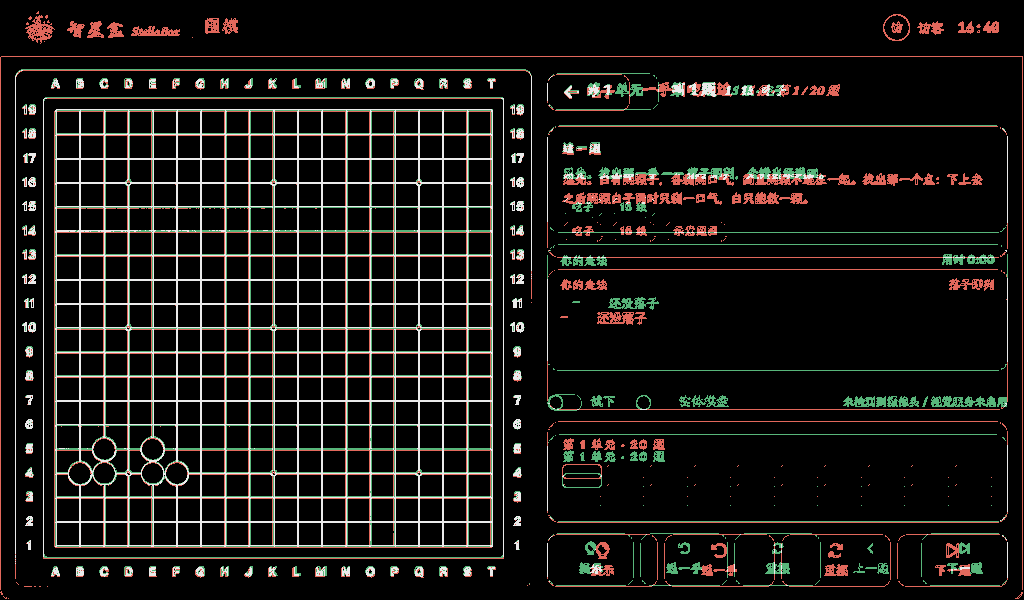
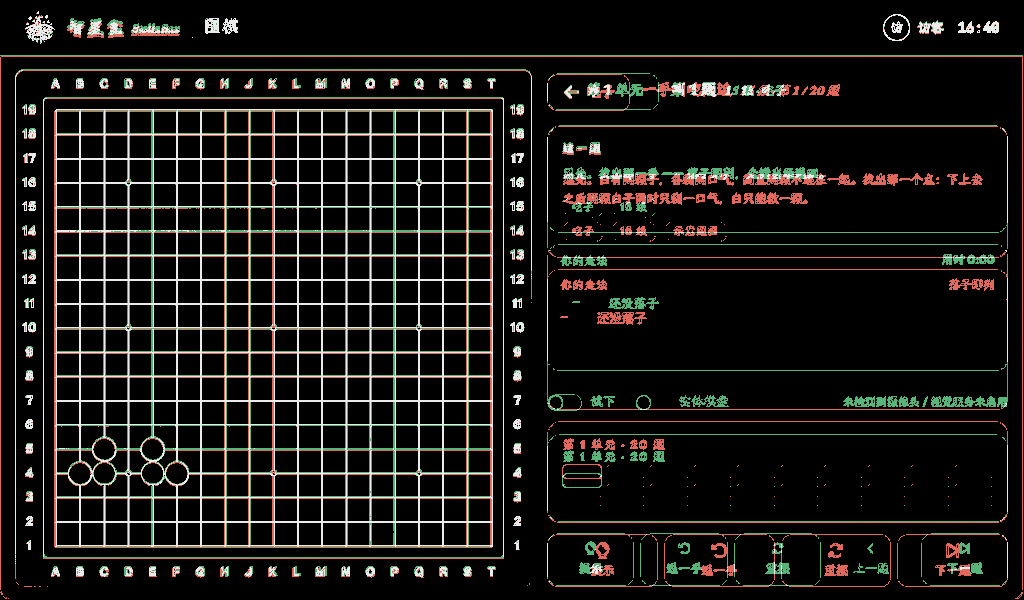
fix(kiosk-go): 屏 14 做题的顶栏没了 —— 那个开关一个像素都没换来(S5)
`TsumegoProblemPage` 用 `setImmersive(true)` 把顶栏整块不渲染,而
`.kiosk-content` 的 `top` 是无条件的 `var(--topbar-h)`(tokens.css:419)⇒
**抽掉顶栏并不会把那 56px 还给内容**,换来的只是屏顶一条空黑带,
代价是那一屏上没有身份、没有时钟、没有主页/退出口。
规范 §5 防跳铁律 1 写死「顶栏永远占 y 0–56,任何层级、任何模块都不变高、不隐藏」,
稿子 `shots/14-puzzle.png` 画的也是有顶栏的。

它是 `immersive` 最后一个消费者(屏 17/18/20/21 各自还过一次),
所以 `ImmersiveContext` 连同它的 Provider、mock 和四份测试桩一起删掉,
顶栏从此在 `KioskLayout` 里无条件渲染 —— 不再有开关可调。

## 闸量错了对象:顶栏那条逐像素闸从头到尾是绿的

`kiosk-shell-geometry.spec.ts:152` 逐像素量顶栏(通栏、56 高、左右簇间距),
**只在 `/kiosk/play` 一屏上量** —— 而漏掉的恰恰是别的屏。屏 14 顶上那条空黑带
在四图存档里肉眼可见(`14-puzzle--side-by-side.png`,2026-08-25 那版),
存档的标签带里却一个字没提,因为没有任何一条断言看得见它。

⇒ 补的判据换了对象:不是「顶栏长什么样」,是「**每一屏上它都在,而且没被盖住**」。
八条路由覆盖全部布局家族(L1 带镜像栏 / L1 自带布局 / L2 布局 A / L2 通栏),
其中就有屏 14。「没被盖住」用 `elementFromPoint` 问浏览器那一点上最上面的是谁 ——
这半件事 jsdom 说不出来:它能证明顶栏**渲染了**,证明不了某一屏用一块遮罩把它压在下面。

jsdom 那一侧同步补了 `KioskLayout.test.tsx` 的 L1+L2 两档(变异验证:
把 topbar 改成 `level === 2 ? undefined : (...)`,L2 那一档当场红;还原后 4 条全过)。

## 不是承重变更

撤回这次改动,没有任何元素的高度来源或裁切边界会变 —— `.kiosk-content` 是
`position:absolute; top:56; bottom:0`,和顶栏渲不渲染无关,顶栏也不在它的流里。
`immersive` 唯一的作用就是让那 56px 空着。⇒ 承重清单不适用,四图重取即可。

屏 14 四图重取:both 30939 / refOnly 26715 / implOnly 25203;顶栏那一带由「红一整条」
变成对齐。reference 字节未变(源图没动),只提 implementation / side-by-side / diff 三张。

Claude-Session: https://claude.ai/code/session_01QHDpCMFjFdkkBRpiU82iCK

Changed region(s): [[0.0312, 0.03, 0.25, 0.09], [0.8438, 0.03, 1.0, 0.06]]

diff --git a/katrain/web/ui/src/kiosk/__tests__/KioskLayout.test.tsx b/katrain/web/ui/src/kiosk/__tests__/KioskLayout.test.tsx
@@ -1,11 +1,9 @@
 import { describe, it, expect } from 'vitest';
-import { render, screen } from '@testing-library/react';
+import { render, screen, cleanup } from '@testing-library/react';
 import { MemoryRouter, Routes, Route } from 'react-router-dom';
 import { ThemeProvider } from '@mui/material';
-import { useEffect } from 'react';
 import { kioskTheme } from '../theme';
 import KioskLayout from '../components/layout/KioskLayout';
-import { useImmersive } from '../context/ImmersiveContext';
 
 const renderLayout = (route = '/kiosk/play') =>
   render(
@@ -16,21 +14,12 @@ const renderLayout = (route = '/kiosk/play') =>
             <Route path="/kiosk/play" element={<div>PLAY_CONTENT</div>} />
             <Route path="/kiosk/report" element={<div>REPORT_CONTENT</div>} />
             <Route path="/kiosk/settings" element={<div>SETTINGS_CONTENT</div>} />
+            <Route path="/kiosk/report/x1" element={<div>DETAIL_CONTENT</div>} />
           </Route>
         </Routes>
       </MemoryRouter>
     </ThemeProvider>
   );
-
-/** Outlet child that flips the real ImmersiveContext (mounted by KioskLayout) to
- * immersive mode on mount — proves the A6→A10 immersive mechanism end to end. */
-const ImmersiveTrigger = () => {
-  const { setImmersive } = useImmersive();
-  useEffect(() => {
-    setImmersive(true);
-  }, [setImmersive]);
-  return <div>IMMERSIVE_CONTENT</div>;
-};
 
 describe('KioskLayout', () => {
   it('renders header, dock, console, and outlet on /kiosk/play', () => {
@@ -66,29 +55,21 @@ describe('KioskLayout', () => {
     expect(document.querySelector('.kiosk-layout-l1')).toBeNull();
   });
 
-  // Task 4 把 Dock 的出没**只**交给 `dockLevelOf`,`immersive` 不再参与:
-  // 今天五个设 immersive 的页面(研究/复盘详情/摆谱对局/做题/直播)**全在 L2**,
-  // `level === 1` 已经把它们挡住了,再叠一个条件只是多一条永远不走的分支。
-  // 所以这条测试现在断言的是 immersive 仅存的那一半作用 —— 抽顶栏。
+  // 顶栏**没有开关**。这里曾经有一个 `immersive`,它能把顶栏整块不渲染 ——
+  // 而 `.kiosk-content` 的 `top` 是写死的 `var(--topbar-h)`(tokens.css:419),
+  // **抽掉顶栏并不会把那 56px 还给内容**:换来的只是屏顶一条空黑带,
+  // 代价是那一屏上没有身份、没有时钟、没有退出口。2026-08-26 连同 `ImmersiveContext` 一起删。
   //
-  // ⚠ **抽顶栏本身和规范 §5 防跳铁律 1 冲突**(「顶栏永远占 y 0–56,任何层级、
-  // 任何模块都不变高、不隐藏」)。这条冲突已登记,归 Task 18 的 §12 差异清单处理,
-  // 不在本 Task 范围内 —— 这条测试锁的是**现状**,不是终态。
-  it('immersive 抽掉顶栏;Dock 归 level 管,L1 上照旧在(已登记的 §5 冲突)', () => {
-    render(
-      <ThemeProvider theme={kioskTheme}>
-        <MemoryRouter initialEntries={['/kiosk/play']}>
-          <Routes>
-            <Route element={<KioskLayout username="张三" />}>
-              <Route path="/kiosk/play" element={<ImmersiveTrigger />} />
-            </Route>
-          </Routes>
-        </MemoryRouter>
-      </ThemeProvider>
-    );
+  // 这条锁的是规范 §5 防跳铁律 1(「顶栏永远占 y 0–56,任何层级、任何模块都不变高、不隐藏」)
+  // 里 jsdom 能作证的那一半 —— **在不在**。高度和位置归真浏览器几何闸
+  // (`kiosk-shell-geometry.spec.ts`),那一条同一天补了「每一条路由上都在」。
+  it('顶栏在 L1 和 L2 上都渲染 —— 页面无法把它抽掉', () => {
+    renderLayout('/kiosk/play');           // L1
+    expect(screen.getByText('智星盒')).toBeInTheDocument();
+    cleanup();
 
-    expect(screen.getByText('IMMERSIVE_CONTENT')).toBeInTheDocument();
-    expect(screen.queryByText('智星盒')).toBeNull();
-    expect(screen.getByText('对弈')).toBeInTheDocument();
+    renderLayout('/kiosk/report/x1');      // L2:不在 dockRoutes 词典里 ⇒ 无 Dock
+    expect(screen.getByText('智星盒')).toBeInTheDocument();
+    expect(screen.queryByText('对弈')).toBeNull();   // Dock 确实没了,顶栏还在
   });
 });

diff --git a/katrain/web/ui/src/kiosk/components/layout/KioskLayout.tsx b/katrain/web/ui/src/kiosk/components/layout/KioskLayout.tsx
@@ -1,6 +1,5 @@
 import { Box } from '@mui/material';
 import { Outlet, useLocation, useNavigate } from 'react-router-dom';
-import { ImmersiveProvider, useImmersive } from '../../context/ImmersiveContext';
 import { KioskFrame } from '../../shell/KioskFrame';
 import { KioskTopbar } from '../../shell/KioskTopbar';
 import { KioskDock } from '../../shell/KioskDock';
@@ -30,23 +29,24 @@ const SELF_LAYOUT_ROUTES = ['/kiosk/report', '/kiosk/settings'];
 interface KioskLayoutProps { username?: string }
 
 const KioskShell = ({ username }: KioskLayoutProps) => {
-  const { immersive } = useImmersive();
   const location = useLocation();
   const navigate = useNavigate();
 
-  // 层级**只**由 dockRoutes 的词典说了算,不由路由前缀、也不由 immersive 说了算。
+  // 层级**只**由 dockRoutes 的词典说了算,不由路由前缀说了算。
   // 一个真相来源:Dock 出不出、中间区 434 还是 516、主页键给不给,全从这一个数派生。
   const level = dockLevelOf(location.pathname);
-  const showRail = !immersive && level === 1 && RAIL_ROUTES.includes(location.pathname);
+  const showRail = level === 1 && RAIL_ROUTES.includes(location.pathname);
 
   return (
     <KioskFrame
       level={level}
-      // ⚠ 已登记的冲突(Task 4):`immersive` 会把顶栏一起抽掉,而规范 §5 防跳铁律 1
-      // 写死「顶栏永远占 y 0–56,任何层级、任何模块都不变高、不隐藏」。本 Task 只把
-      // **Dock** 归 `dockLevelOf` 管,`immersive` 对顶栏的作用先原样留着 ——
-      // 它有五个消费者(研究/复盘详情/摆谱对局/做题/直播),删它超出本 Task 的范围。
-      topbar={immersive ? undefined : (
+      // 顶栏**无条件渲染** —— 规范 §5 防跳铁律 1:「顶栏永远占 y 0–56,任何层级、
+      // 任何模块都不变高、不隐藏」。这里曾经有一个 `immersive` 开关能把它抽掉,
+      // 而 `.kiosk-content` 的 `top` 是写死的 `var(--topbar-h)`(tokens.css:419)⇒
+      // 抽掉顶栏**并不会把那 56px 还给内容**,只是在屏顶留一条空黑带。
+      // 也就是说那个开关从来没有换来任何东西,代价却是屏上少了身份、时钟和退出口。
+      // 2026-08-26 删掉,`ImmersiveContext` 一并删(它已无第二个消费者)。
+      topbar={(
         <KioskTopbar
           identity={{ username }}
           // 主页键只在一级页出现(规范 §6「一级页面可在固定系统动作区显示主页入口」)。
@@ -54,8 +54,6 @@ const KioskShell = ({ username }: KioskLayoutProps) => {
           onHome={level === 1 ? () => window.location.assign('http://127.0.0.1:8080/launcher') : undefined}
         />
       )}
-      // Dock 不再看 immersive:今天五个设 immersive 的页面全在 L2,`level === 1` 已经把它们
-      // 挡在外面了,再叠一个条件只会多出一条永远不走的分支。
       dock={level === 1 ? (
         <KioskDock pathname={location.pathname} onTab={(p) => navigate(p)} />
       ) : undefined}
@@ -90,10 +88,6 @@ const KioskShell = ({ username }: KioskLayoutProps) => {
   );
 };
 
-const KioskLayout = ({ username }: KioskLayoutProps) => (
-  <ImmersiveProvider>
-    <KioskShell username={username} />
-  </ImmersiveProvider>
-);
+const KioskLayout = ({ username }: KioskLayoutProps) => <KioskShell username={username} />;
 
 export default KioskLayout;

diff --git a/katrain/web/ui/src/kiosk/pages/ReportDetailPage.test.tsx b/katrain/web/ui/src/kiosk/pages/ReportDetailPage.test.tsx
@@ -17,7 +17,6 @@ const getMoves = vi.fn();
 const getGame = vi.fn();
 const setCurrentMove = vi.fn();
 const playSound = vi.fn();
-const setImmersive = vi.fn();
 let auth = { token: 'token', isAuthenticated: true };
 let detail: ReturnType<typeof baseDetail>;
 let boardProps: Record<string, unknown> = {};
@@ -47,7 +46,6 @@ vi.mock('../../api/userGamesApi', async (original) => ({
   UserGamesAPI: { get: (...args: unknown[]) => getGame(...args) },
 }));
 vi.mock('../../hooks/useSound', () => ({ useSound: () => ({ play: playSound }) }));
-vi.mock('../context/ImmersiveContext', () => ({ useImmersive: () => ({ setImmersive }) }));
 // 盘是 canvas,jsdom 里画不出来 —— 换成一块能替它发出「点了哪一格」的桩。
 // `Q10` 在 `ABCDEFGHJKLMNOPQRSTUVWXYZ`(跳 I)里 x=15、y=10−1=9;`A1` 是 (0,0)。
 vi.mock('../../components/live/LiveBoard', () => ({
@@ -166,12 +164,11 @@ describe('屏 20 · 题头与状态', () => {
 
   afterEach(() => vi.useRealTimers());
 
-  // ⚠ **这一屏不进沉浸。** `immersive` 只把顶栏整块不渲染,而 `.kiosk-content` 的 top
-  // 仍是 56 ⇒ 屏顶留一条 56 高的空黑带(2026-08-23 四图当场看见)。
-  // 规范 §5 防跳铁律 1:顶栏任何层级都不隐藏;稿子这一屏画的也是有顶栏的。
-  it('不进沉浸 —— 顶栏得留着,盘按谱的路数画,题头念的是这一局是什么', () => {
+  // 顶栏在不在**不再是这一屏能决定的事**:2026-08-26 删掉了 `ImmersiveContext`,
+  // `KioskLayout` 无条件渲染顶栏,判据搬到 `KioskLayout.test.tsx` 和真浏览器几何闸。
+  // 这一条只留下它自己的部分 —— 盘按谱的路数画、题头念的是这一局是什么。
+  it('盘按谱的路数画,题头念的是这一局是什么', () => {
     renderPage();
-    expect(setImmersive).not.toHaveBeenCalledWith(true);
     expect(screen.getByTestId('live-board')).toHaveAttribute('data-board-size', '19');
     expect(screen.getByTestId('report-detail-status')).toHaveTextContent('生成中 · 深度复盘');
     // 页控条的标题走的是复盘列表那套说法(同一局在两屏之间不许改口)
@@ -255,11 +252,6 @@ describe('屏 20 · 题头与状态', () => {
     expect(document.querySelectorAll('.kiosk-board__ruler--top span')).toHaveLength(19);
   });
 
-  it('从头到尾没碰过沉浸开关 —— 碰了就等于自己把顶栏抽掉', () => {
-    const rendered = renderPage();
-    rendered.unmount();
-    expect(setImmersive).not.toHaveBeenCalled();
-  });
 });
 
 describe('屏 20 · 胜率曲线与重点手', () => {

diff --git a/katrain/web/ui/src/kiosk/pages/TsumegoProblemPage.tsx b/katrain/web/ui/src/kiosk/pages/TsumegoProblemPage.tsx
@@ -9,7 +9,6 @@ import SuccessOverlay from '../components/tsumego/SuccessOverlay';
 import BoardSetupGuide from '../components/vision/BoardSetupGuide';
 import { useVision } from '../context/VisionContext';
 import { useOptionalGeometry } from '../context/GeometryContext';
-import { useImmersive } from '../context/ImmersiveContext';
 import { useVisionSync } from '../hooks/useVisionSync';
 import { usePhysicalTsumego, stonesToVisionBoard } from '../hooks/usePhysicalTsumego';
 import {
@@ -46,7 +45,6 @@ const TsumegoProblemPage = () => {
   const { t } = useTranslation();
   const { play: playSound } = useSound();
   const { progress } = useTsumegoProgress();
-  const { setImmersive } = useImmersive();
   const {
     problem,
     loading,
@@ -118,12 +116,6 @@ const TsumegoProblemPage = () => {
   // Sequence of problem ids for the whole category, sourced from sessionStorage (written by
   // the units pages). If missing (deep-link), fetch the full category list once and cache it.
   const [sequence, setSequence] = useState<string[]>([]);
-
-  // Immersive solve screen — hide the Dock + left board console while a problem is open.
-  useEffect(() => {
-    setImmersive(true);
-    return () => setImmersive(false);
-  }, [setImmersive]);
 
   useEffect(() => {
     if (!problem) return;

diff --git a/katrain/web/ui/src/kiosk/pages/ResearchPage.tsx b/katrain/web/ui/src/kiosk/pages/ResearchPage.tsx
@@ -52,7 +52,8 @@ import { UserGamesAPI } from '../../api/userGamesApi';
  * (`tokens.css:419`),于是屏顶留一条 **56 高的空黑带**,一个像素都没省下。
  * 规范 §5 防跳铁律 1 写死「顶栏永远占 y 0–56,任何层级、任何模块都不变高、不隐藏」,
  * 参考图 `shots/21-research.png` 顶栏也是在的。⇒ 这一屏不再调它。
- * 屏 17 摆谱、屏 18 直播、屏 20 复盘详情已各自还过一次,本屏还完只剩屏 14 做题一个现场。
+ * 屏 17 摆谱、屏 18 直播、屏 20 复盘详情已各自还过一次,本屏还完只剩屏 14 做题一个现场 ——
+ * 2026-08-26 屏 14 也还了,`ImmersiveContext` 随即整个删掉,顶栏从此无条件渲染。
  *
  * Dock 与本屏无关:`/kiosk/research` 不在 `DOCK_TABS` 里 ⇒ `dockLevelOf` 恒为 2 ⇒
  * **四态一律没有 Dock**,`immersive` 从来就不影响它(`KioskLayout.tsx:56-59`)。

diff --git a/katrain/web/ui/src/kiosk/pages/LiveMatchPage.tsx b/katrain/web/ui/src/kiosk/pages/LiveMatchPage.tsx
@@ -53,6 +53,7 @@ const SOURCE_LABEL: Record<string, string> = { yike: '弈客', xingzhen: '星阵
  * `.kiosk-content` 全样式包里只有两条规则(`tokens.css:415` 的 `top:var(--topbar-h)` 无条件、
  * `:423` 只改 L1 的 `bottom`),**没有任何选择器能在 immersive 下改它的 top** ⇒ 顶栏不渲染
  * 只会在屏顶留一条 56 的空黑带。参考图那一帧顶栏在。
+ * (2026-08-26:最后一个现场屏 14 也还完,`ImmersiveContext` 已删,这条开关不复存在。)
  * (顺带更正上一版那句注释:Dock **不归 immersive 管** —— `KioskLayout` 是
  * `level === 1 ? <KioskDock/> : undefined`,而这一屏 `dockLevelOf` 返回 2,本来就没有 Dock。)
  * **返回不加二次确认**:这一屏没有动作区、返回在左上角离那排开关最远,而且观众没有可损失的

diff --git a/katrain/web/ui/src/kiosk/pages/ReportDetailPage.tsx b/katrain/web/ui/src/kiosk/pages/ReportDetailPage.tsx
@@ -54,7 +54,8 @@ import { whenLabel } from '../utils/whenLabel';
  * (`tokens.css:419`),于是屏顶留下一条 **56 高的空黑带** —— 2026-08-23 四图当场看见。
  * 而规范 §5 防跳铁律 1 写死「顶栏永远占 y 0–56,任何层级、任何模块都不变高、不隐藏」,
  * 稿子这一屏画的也是有顶栏的。⇒ 这一屏不再进沉浸。
- * (`immersive` 本身还留着 —— 研究 / 摆谱 / 做题 / 直播还在用它,那笔账在 Task 4 已登记。)
+ * (2026-08-26 更正:屏 14 做题是最后一个现场,还完之后 `ImmersiveContext` 已整个删掉 ——
+ *  顶栏现在**无条件渲染**,`KioskLayout.tsx` 上有那条注释,不再有开关可调。)
  */
 
 const BACK_PATH = '/kiosk/report';

diff --git a/katrain/web/ui/src/kiosk/pages/BaipuSessionPage.tsx b/katrain/web/ui/src/kiosk/pages/BaipuSessionPage.tsx
@@ -73,6 +73,7 @@ type Mood = 'guiding' | 'removal' | 'failed' | 'done';
  * 上一版 `setImmersive(true)` 把顶栏和 Dock 都藏了。`ReportDetailPage:52-58` 已为同一件事
  * 判过一次,判据是量出来的:`immersive` 在 `KioskLayout` 里只让**顶栏不渲染**,而
  * `.kiosk-content` 的 `top` 仍是 `var(--topbar-h)` ⇒ 屏顶留一条 56 高的空黑带。
+ * (2026-08-26:最后一个现场屏 14 也还完,`ImmersiveContext` 已删,这条开关不复存在。)
  * 返回归页控条「← 棋谱」,**但二次确认留着** —— 它不是实现遗留,是这一屏已采纳的裁定
  * (Blocker #2:「确认落子」一局按约 250 次,退出按一次,两颗不能同排;解法是移到角上 + 确认)。
  *

diff --git a/katrain/web/ui/src/kiosk/__tests__/ResearchPage.test.tsx b/katrain/web/ui/src/kiosk/__tests__/ResearchPage.test.tsx
@@ -18,10 +18,6 @@ import type { GameState } from '../../api';
  * 「表能不能滚」「右栏 516 摆不摆得下」归 `tests/kiosk-shell-geometry.spec.ts`。
  */
 
-vi.mock('../context/ImmersiveContext', () => ({
-  useImmersive: () => ({ immersive: false, setImmersive: vi.fn() }),
-}));
-
 const { authState } = vi.hoisted(() => ({ authState: { current: { token: 'mock-token', isAuthenticated: true, user: { id: 1, username: 'test' }, login: vi.fn(), logout: vi.fn() } as any } }));
 vi.mock('../../context/AuthContext', () => ({ useAuth: () => authState.current }));
 

diff --git a/katrain/web/ui/src/kiosk/pages/ResearchPage.userGame.test.tsx b/katrain/web/ui/src/kiosk/pages/ResearchPage.userGame.test.tsx
@@ -4,10 +4,6 @@ import { MemoryRouter } from 'react-router-dom';
 import { ThemeProvider } from '@mui/material';
 import { kioskTheme } from '../theme';
 
-vi.mock('../context/ImmersiveContext', () => ({
-  useImmersive: () => ({ immersive: false, setImmersive: vi.fn() }),
-}));
-
 vi.mock('../../api', () => ({
   API: {
     quickAnalyze: vi.fn().mockResolvedValue({ turnInfos: [{ moveInfos: [], ownership: null }] }),

diff --git a/katrain/web/ui/src/kiosk/__tests__/LiveMatchPage.test.tsx b/katrain/web/ui/src/kiosk/__tests__/LiveMatchPage.test.tsx
@@ -9,10 +9,6 @@ vi.mock('../context/OrientationContext', () => ({
   useOrientation: () => ({ rotation: 0, setRotation: vi.fn() }),
 }));
 
-vi.mock('../context/ImmersiveContext', () => ({
-  useImmersive: () => ({ immersive: false, setImmersive: vi.fn() }),
-}));
-
 vi.mock('../../hooks/live/useLiveMatch', () => ({
   useLiveMatch: vi.fn(),
 }));
